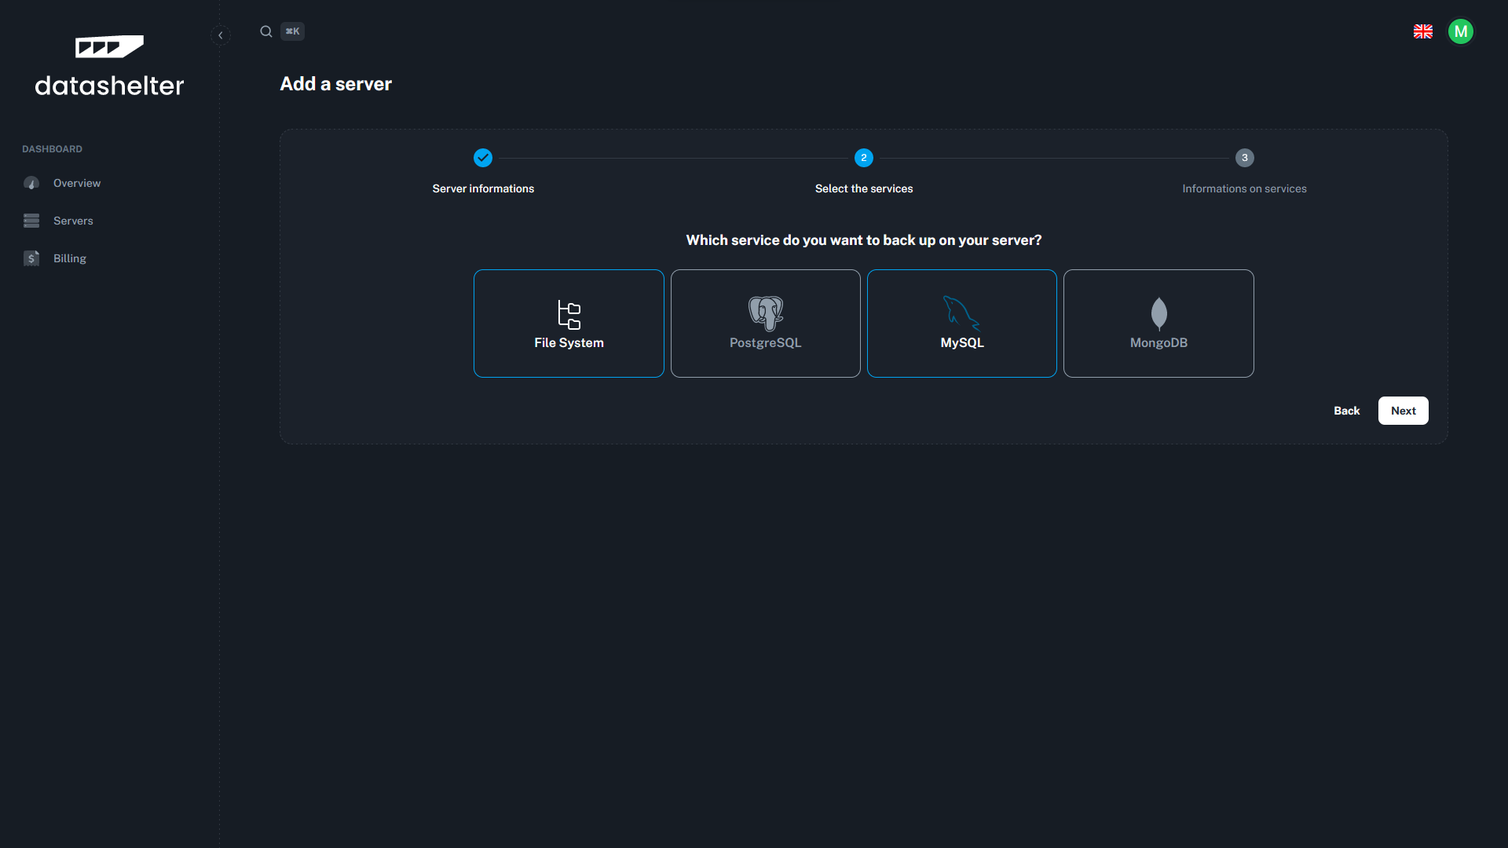
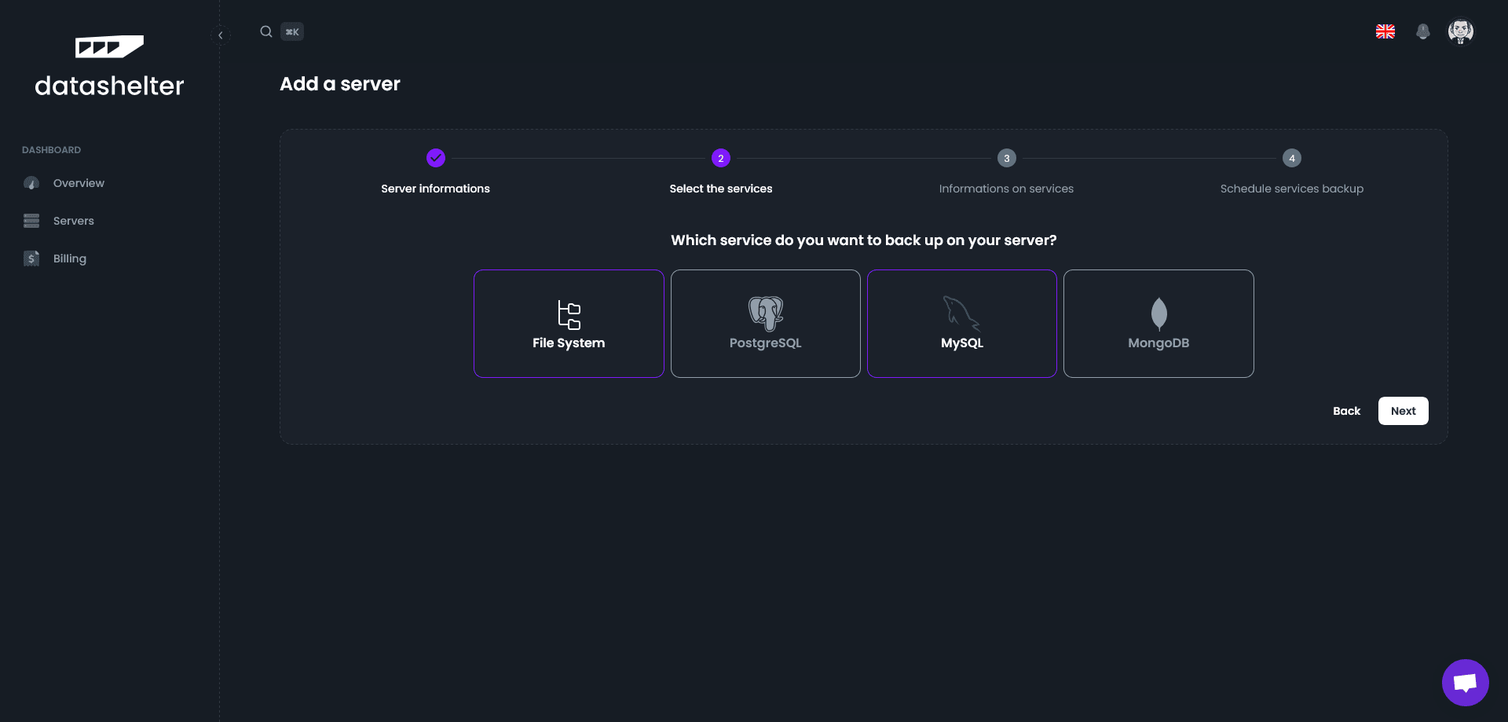
add many ressources to the documentation

diff --git a/docusaurus.config.js b/docusaurus.config.js
@@ -168,7 +168,7 @@ const config = {
             ],
           },
         ],
-        copyright: `Copyright © ${new Date().getFullYear()} Datashelter. Built with ❤ in 🇪🇺`,
+        copyright: `Copyright © ${new Date().getFullYear()} Datashelter - Your Backups Effortlessly Automated`,
       },
       prism: {
         theme: prismThemes.github,

diff --git a/i18n/fr/docusaurus-plugin-content-docs/current/introduction.md b/i18n/fr/docusaurus-plugin-content-docs/current/introduction.md
@@ -8,35 +8,34 @@ import TabItem from '@theme/TabItem';
 
 # Introduction
 
-Datashelter est une plateforme SaaS qui vous permet d'automatiser vos sauvegardes de manière simple et sécurisée. Il vous suffit de configurer votre serveur à l'aide de notre CLI snaper, et Datashelter s'occupe du reste (stockage, alertes et politiques de rétention).
+Datashelter est une solution de sauvegarde entièrement intégrée, conçue pour simplifier le processus de sauvegarde de vos serveurs Linux. En seulement quelques étapes, vous pouvez protéger vos données critiques en sauvegardant vos fichiers et bases de données sur un système de stockage compatible S3.
+Datashelter propose une configuration simple, une gestion automatisée des sauvegardes et des fonctionnalités de récupération puissantes—tout en garantissant que vos données sont chiffrées, compressées et dédupliquées.
 
-Notre CLI snaper s'installe sur votre serveur à sauvegarder et vous permet de configurer simplement vos sauvegardes. Il se charge de réaliser vos sauvegardes, les compresser, les chiffrer et les envoyer vers Datashelter au travers d'une API S3.
+## Fonctionnalités principales
 
-## Comment ça marche ?
+- **Configuration rapide :** Sauvegardez vos serveurs en quelques minutes grâce à notre outil CLI facile à installer.
+- **Gestion automatisée :** Après votre première sauvegarde, Datashelter gère tout automatiquement. Vous serez informé si un problème survient.
+- **Sauvegarde complète :** Prend en charge les fichiers et les principales bases de données (MySQL, PostgreSQL, MongoDB).
+- **Chiffrement de bout en bout :** Toutes les sauvegardes sont chiffrées avec le chiffrement AES-256.
+- **Stockage optimisé :** La compression ZSTD et la déduplication garantissent une utilisation minimale du stockage.
+- **Restauration facile :** Récupérez vos fichiers ou bases de données rapidement et sans effort.
 
-<Tabs groupId="backup_type">
-  <TabItem value="files" label="Files">
-    1. Crée un index de vos fichiers, comprenant le nom, la taille, la date de modification et un checksum (si activé)
-    2. Génère un index différentiel en se basant sur l'index précédent
-    3. Envoi les fichiers modifiés vers Datashelter (au travers de l'API S3), en les compressant et en les chiffrant à la volée
-  </TabItem>
-  <TabItem value="databases" label="Databases">
-    1. Utilise votre client de base de données (mysql, postgresql, mongodb) pour créer un dump de votre base de données
-    2. Transfère le dump vers Datashelter (au travers de l'API S3), en veillant à le compresser et à le chiffrer à la volée
-  </TabItem>
-</Tabs>
+## Comment ça fonctionne
 
+Snaper est l'outil en ligne de commande (CLI) qui gère le processus de sauvegarde pour Datashelter. Conçu en Golang, Snaper est un outil puissant et léger, conçu pour effectuer des sauvegardes de manière efficace et sécurisée depuis le côté client. Il prend en charge tout, de la sauvegarde de fichiers et de bases de données à la compression, au chiffrement et au transfert vers le stockage—le tout dans un seul binaire facile à utiliser.
 
-### En quoi Snaper se différencie ?
+Ce qui distingue Snaper des solutions de sauvegarde traditionnelles, c'est sa capacité de sauvegarde incrémentale avec déduplication au niveau des fichiers. Contrairement aux outils comme rsync, qui ne sauvegardent que les fichiers modifiés ou ajoutés, Snaper utilise une méthode de sauvegarde basée sur des index. Lisez notre article dédié Qu'est-ce qu'une sauvegarde basée sur des index pour en savoir plus !
 
-snaper crée des instantanés avec déduplication au niveau des fichiers. Contrairement aux méthodes traditionnelles telles que les sauvegardes incrémentales rsync qui ne stockent que les fichiers modifiés ou ajoutés, snaper va plus loin.
+![Snaper schema](assets/snaper_schema.png)
 
-Il indexe et stocke l'état complet de vos fichiers, qu'ils aient été ajoutés, modifiés ou supprimés. Cette fonctionnalité garantit la capacité de snaper à **restaurer vos systèmes de fichiers à l'indentique**.
+En résumé, Snaper offre une restauration à des points précis dans le temps avec une utilisation efficace du stockage, vous garantissant ainsi de pouvoir récupérer vos données exactement telles qu'elles étaient à tout moment de la sauvegarde.
 
-### Où sont stockées mes données ?
+### Où Datashelter stocke-t-il vos données ?
 
-Chez Datashelter, nous donnons la priorité à la sécurité et à la souveraineté de vos données. C'est pourquoi nous stockons exclusivement vos fichiers en France 🇫🇷 - en nous appuyant actuellement sur OVH Object Storage, une solution compatible S3 fiable et de confiance.
+Chez Datashelter, nous nous engageons à garantir la sécurité, la confidentialité et la fiabilité de vos données. Actuellement, nous utilisons l'infrastructure OVHcloud pour stocker vos sauvegardes, offrant un accès à cinq zones de disponibilité réparties entre la France 🇫🇷 (Gravelines), l'Allemagne 🇩🇪 (Francfort), la Pologne 🇵🇱 (Varsovie), le Royaume-Uni 🇬🇧 (Londres), et le Canada 🇨🇦 (Beauharnois). Ce partenariat stratégique avec OVHcloud nous permet de proposer un stockage fiable à un prix compétitif dans des régions qui répondent à vos besoins opérationnels et réglementaires.
 
-Notre ambition est de devenir une solution alternative européenne souveraine 🇪🇺 pour la sauvegarde des données. Notre objectif est de fournir une interface entre vos serveurs - qu'ils soient dédiés, VPS ou sur site - et le stockage objet.
+De plus, en tant que solution entièrement compatible avec S3, Datashelter vous offre la flexibilité de connecter votre propre bucket S3. Cela vous permet de stocker vos sauvegardes à l'endroit le plus pratique pour vos besoins—que ce soit au sein de votre infrastructure cloud existante, sur site, ou dans une autre région de votre choix.
 
-**Just give it a try  🚀**
+En alliant flexibilité et accessibilité, Datashelter garantit que vos données restent sécurisées, conformes et facilement accessibles, sans compromettre les coûts.
+
+Essayez et vous verrez ! 🚀

diff --git a/docs/introduction.md b/docs/introduction.md
@@ -8,35 +8,34 @@ import TabItem from '@theme/TabItem';
 
 # Introduction
 
-Datashelter is a SaaS platform that automates your backups in a simple and secure manner. All you need to do is configure your server using our CLI, and let us handle the rest (storage, alerting, and retention policies).
+Datashelter is a fully integrated backup solution designed to simplify the process of backing up your Linux servers. With just a few steps, you can protect your critical data by backing up your files and databases to an S3-compatible storage system.
+Datashelter provides seamless setup, automated backup management, and powerful recovery features—all while ensuring your data is encrypted, compressed, and deduplicated.
 
-To facilitate this, we developed snaper, a CLI tool that assists you in configuring your server and managing your backups.
+### Key Features
+- **Quick Setup:** Backup your servers within minutes by using our easy-to-install CLI tool.
+- **Automated Management:** After your initial backup, Datashelter manages everything automatically. You will be notified if anything goes wrong.
+- **Comprehensive Backup:** Supports files and major databases (MySQL, PostgreSQL, MongoDB).
+- **End-to-End Security:** All backups are encrypted using AES-256 encryption.
+- **Efficient Storage:** ZSTD compression and deduplication ensure minimal storage usage.
+- **Easy Restoration:** Recover files or databases quickly and effortlessly.
 
 ## How it works
 
-<Tabs groupId="backup_type">
-  <TabItem value="files" label="Files">
-    1. Creates an index of your files, including name, size, modification date, and hash
-    2. Generates a differential index compared to the previous index
-    3. Sends changed files to S3-compatible storage, compressing and encrypting them on-the-fly
-  </TabItem>
-  <TabItem value="databases" label="Databases">
-    1. Use your database client (mysql, postgresql, mongodb) to create a dump of your database
-    2. Transfer the dump to an S3-compatible storage system, making sure to compress and encrypt it on-the-fly
-  </TabItem>
-</Tabs>
+Snaper is the command-line tool (CLI) that powers the backup process for Datashelter. Built in Golang, Snaper is a powerful, lightweight tool designed to perform backups efficiently and securely from the client side. It handles everything from file and database backup to compression, encryption, and storage transfer—all within a single, easy-to-use binary.
+
+What makes Snaper different from traditional backup solutions is its incremental backup with file-level deduplication. Unlike tools like rsync that only back up changed or added files, Snaper uses index-based backup method. Read our dedicated blogpost [What is index-based backup](https://datashelter.tech/fr/blog/sauvegarde-index-based/) to know more about it!
+
+![Snaper schema](assets/snaper_schema.png)
+
+In essence, Snaper provides storage-efficient, point-in-time restoration, ensuring that you can recover your data exactly as it was at any backup point.
 
 
-### Why is snaper different ?
+### Where does Datashelter store your data
 
-snaper creates incremental backups with file-level deduplication. Unlike traditional methods such as rsync incrementals, which only store changed or added files, snaper takes it a step further. It indexes and stores the complete state of your files, whether they have been added, changed, or deleted. This feature ensures snaper's ability to **restore your files at any point in time (including deletions)**.
+At Datashelter, we are dedicated to ensuring the security, privacy, and reliability of your data. Currently, we leverage OVHcloud infrastructure to store your backups, providing access to **five availability zones** across **France** 🇫🇷 (Gravelines), **Germany** 🇩🇪 (Frankfurt), **Poland** 🇵🇱 (Warsaw), the **UK** 🇬🇧 (London), and **Canada** 🇨🇦 (Beauharnois). This strategic partnership with OVHcloud allows us to offer reliable storage at a competitive price in regions that align with your business operations and regulatory needs.
 
-In short, snaper aids in creating **storage-efficient** backups, courtesy of its compression and deduplication capabilities.
+Additionally, as a fully S3-compatible solution, Datashelter offers you the flexibility to connect your own S3 bucket. This enables you to store your backups in the most convenient location for your needs—whether that’s within your existing cloud infrastructure, an on-premise solution, or another region of your choosing.
 
-### Where do you store my data ?
-
-At Datashelter, we prioritize the security and sovereignty of your data. That's why we exclusively store your files in Europe - currently leveraging OVH Object Storage, a trusted and reliable S3-compatible solution.
-
-Our ambition is to become a sovereign European 🇪🇺 alternative solution for data backup. We aim to provide an interface between your servers - whether they're dedicated, VPS, or on-premise - and object storage.
+By providing both flexibility and affordability, Datashelter ensures that your data remains secure, compliant, and highly accessible without compromising on cost.
 
 **Just give us a try and you will see 🚀**

diff --git a/i18n/fr/docusaurus-plugin-content-docs/current/faq/infrastructure/infrastructure.md b/i18n/fr/docusaurus-plugin-content-docs/current/faq/infrastructure/infrastructure.md
@@ -1,9 +1,18 @@
 # Détails de l'infrastructure
 
-Vos fichiers sont exclusivement stockés en Europe 🇪🇺 sur un stockage compatible S3 (nous nous appuyons actuellement sur [OVH Object storage](https://www.ovhcloud.com/fr/public-cloud/object-storage/)).
+## Que se passe-t-il en coulisse ?
 
-Snaper effectue un chiffrement côté client à la volée en utilisant l'algorithme AES-256-GCM, de sorte que vos données restent toujours sécurisées 🔒.
+Datashelter est basé sur le protocole S3, avec des composants personnalisés supplémentaires qui offrent des fonctionnalités telles que :
 
-**Datashelter n'a pas accès à vos clés de chiffrement**
+- **Alertes :** Nous surveillons en permanence vos sauvegardes et vous avertissons en cas de problème. Par exemple, si votre dernière sauvegarde n'a pas été reçue, vous recevrez une alerte par email.
+- **Rétention :** Nous gérons la rétention de vos sauvegardes, vous permettant de configurer facilement des règles de réduction d'échantillonnage pour les dumps de bases de données. Par exemple, vous pouvez choisir de conserver 1 sauvegarde par jour pour les 7 derniers jours, 1 sauvegarde par semaine pour les 4 dernières semaines, 1 sauvegarde par mois pour les 6 derniers mois, etc. **Pour les sauvegardes de fichiers, nous conservons les index pendant 1 an grâce à la déduplication.**
+- **Protection contre l'altération des données :** Avec notre passerelle S3 personnalisée, vos sauvegardes restent sécurisées même si vos identifiants S3 sont compromis. Vos sauvegardes sont immuables, ce qui signifie qu'elles ne peuvent ni être supprimées ni modifiées. Vous aurez uniquement un accès en lecture.
+- **Haute segmentation :** Chaque serveur créé dans Datashelter est isolé des autres, avec un bucket et des identifiants dédiés pour chacun. Cela garantit que si un serveur est compromis, les autres ne sont pas affectés.
 
-Pour plus de détails, notre équipe d'assistance se fera un plaisir de vous expliquer comment Datashelter fonctionne sous le capot [support@datashelter.tech](mailto:support@datashelter.tech).
+![Datashelter infrastructure](../../assets/faq/datashelter_infrastructure_schema.png)
+
+## Envie d'en savoir plus ?
+
+Si vous souhaitez en savoir plus sur nos fonctionnalités de sécurité uniques, nous vous invitons à lire notre article de blog : [Comment Datashelter garantit la sécurité de vos sauvegardes ?](https://datashelter.tech/fr/blog/datashelter-securise-vos-sauvegardes/)
+
+Pour toute information complémentaire, notre équipe de support est à votre disposition pour vous fournir plus de détails sur le fonctionnement de Datashelter. N'hésitez pas à nous contacter à l'adresse suivante : support@datashelter.tech.

diff --git a/docs/faq/infrastructure/infrastructure.md b/docs/faq/infrastructure/infrastructure.md
@@ -1,9 +1,17 @@
 # Infrastructure details
 
-Your files are exclusively stored in Europe on an S3-compatible storage (we currently rely on [OVH Object storage](https://www.ovhcloud.com/fr/public-cloud/object-storage/)).
+## What's under the hood?
 
-Snaper performs client-side encryption on-the-fly using AES-256-GCM algorithm, so your data always remain secured 🔒.
+Datashelter is built around the S3 protocol, with additional custom components that provide features such as:
+- **Alerts:** We continuously monitor your backups and notify you if something goes wrong. For instance, if your last backup hasn't been received, you'll receive an email alert.
+- **Retention:** We manage the retention of your backups, making it easy to configure downsampling rules for database dumps. For example, you can choose to keep 1 backup per day for the last 7 days, 1 backup per week for the last 4 weeks, 1 backup per month for the last 6 months, etc. For file backups, we retain all indexes for 1 year through deduplication.
+- **Data tampering protection:** With our custom S3 gateway, your backups are secure even if your S3 credentials are compromised. Your backups are immutable, meaning they cannot be deleted or modified. You will only have read access to them.
+- **High segmentation:** Every server created in Datashelter is isolated from the others, each with its own dedicated bucket and credentials. This ensures that if one server is compromised, the others remain unaffected.
 
-**Datashelter does not have access to your encryption keys**
+![Datashelter infrastructure](../../assets/faq/datashelter_infrastructure_schema.png)
 
-For more details, our support team will be happy to give you more details about how Datashelter works under the hood [contact@datashelter.tech](mailto:contact@datashelter.tech).
+## Want to know more?
+
+If you're interested in learning more about our unique security features, we invite you to read our blog post: [How Datashelter ensures the security of your backups](https://datashelter.tech/blog/datashelter-security-features/).
+
+For further information, our support team is happy to assist and provide additional details about how Datashelter works. Feel free to reach out to us at contact@datashelter.tech.

diff --git a/i18n/fr/docusaurus-plugin-content-docs/current/quickstart.md b/i18n/fr/docusaurus-plugin-content-docs/current/quickstart.md
@@ -2,7 +2,7 @@
 sidebar_position: 2
 ---
 
-# Quickstart
+# Get started
 
 ## Créez un compte sur Datashelter
 
@@ -13,32 +13,23 @@ Créez un compte sur [app.datashelter.tech](https://app.datashelter.tech)
 
 Ajoutez votre premier serveur sur le tableau de bord. Vous serez invité à installer le CLI snaper sur votre serveur et à le configurer.
 
+### 1. Cliquez sur le bouton "Ajouter un serveur"
+![Configurer un serveur](assets/quickstart/configure_server.png)
 
-1. **Cliquez sur le bouton "Ajouter un serveur"**
-![Configure server](assets/quickstart/configure_server.png)
+### 2. Définissez un nom et une description pour votre serveur
+![Informations sur le serveur](assets/quickstart/1_server_informations.png)
 
-2. **Définissez le nom du serveur et une description**
-![Server informations](assets/quickstart/1_server_informations.png)
+### 3. Sélectionnez les types de services que vous souhaitez sauvegarder
+![Selectionnez vos services](assets/quickstart/2_select_services.png)
 
-3. **Sélectionnez les services que vous souhaitez sauvegarder**
-![Select services](assets/quickstart/2_select_services.png)
+### 4. Fournissez les détails des services
+![Informations sur les services](assets/quickstart/3_service_informations.png)
 
-4. **Remplir les informations sur les services à sauvegarder**
-![Service informations](assets/quickstart/3_service_informations.png)
+### 5. Planifier la sauvegarde automatique (optionnelle)
+![Planifier les sauvegardes](assets/quickstart/4_set_scheduling.png)
 
-1. **Lancer les commandes d'installation et de configuration retournées dans votre terminal pour effectuer votre premier instantané**
-![Final step](assets/quickstart/4_final_step.png)
-
-## Configurer les sauvegardes récurentes
-
-Une fois la CLI de snaper installée et configurée, vous pouvez configurer des crontabs pour planifier vos sauvegardes.
-
-```
-crontab -e
----
-# Sauvegarde tous vos services configurés toutes les jours à 3h00 du matin
-0 3 * * * /usr/local/bin/snaper backup --all 2>&1 >> /var/log/snaper.log
-```
+### 6. Lancer les commandes de configuration dans votre terminal
+![Lancer les commandes dans le terminal](assets/quickstart/5_final_step.png)
 
 ## Profitez ! 🚀
 

diff --git a/docs/quickstart.md b/docs/quickstart.md
@@ -2,7 +2,7 @@
 sidebar_position: 2
 ---
 
-# Quickstart
+# Get started
 
 ## Create an account on Datashelter
 
@@ -14,31 +14,23 @@ Create an account on [app.datashelter.tech](https://app.datashelter.tech)
 Add your first server on the dashboard. You will be prompted to install the snaper CLI on your server and to configure it.
 
 
-1. **Click on the "Add server" button**
+### 1. Click the "Add server" button
 ![Configure server](assets/quickstart/configure_server.png)
 
-2. **Set the server name and a description**
+### 2. Enter a server name and description
 ![Server informations](assets/quickstart/1_server_informations.png)
 
-3. **Select the services you want to backup**
+### 3. Select the types of services you want to back up
 ![Select services](assets/quickstart/2_select_services.png)
 
-4. **Fill in the services informations**
+### 4. Provide service details
 ![Service informations](assets/quickstart/3_service_informations.png)
 
-5. **Launch snaper install and configuration command on your terminal to perform your first backup**
-![Final step](assets/quickstart/4_final_step.png)
+### 5. Set a backup schedule (optional)
+![Set scheduling](assets/quickstart/4_set_scheduling.png)
 
-## Setup recurring backups
-
-Once the snaper CLI is installed and configured, you can setup crontabs to schedule your backups.
-
-```
-crontab -e
----
-# Backup your files every day at 3am
-0 3 * * * /usr/local/bin/snaper backup --all 2>&1 >> /var/log/snaper.log
-```
+### 6. Run configuration commands in your terminal
+![Final step](assets/quickstart/5_final_step.png)
 
 ## Enjoy 🚀
 

diff --git a/i18n/fr/docusaurus-plugin-content-docs/current/faq/compression/compression-process.md b/i18n/fr/docusaurus-plugin-content-docs/current/faq/compression/compression-process.md
@@ -1,5 +1,11 @@
-# Comment la compression est-elle réalisée avec Snaper ?
+# Comment la compression est-elle gérée ?
 
-Nous utilisons l'algorithme ZSTD pour compresser tous les fichiers envoyés sur S3 (*cette fonctionnalité peut être désactivée en option*).
+Notre outil CLI, Snaper, compresse automatiquement vos fichiers **avant de les chiffrer et de les télécharger sur S3.**
 
-Nous avons choisi cet algorithme car il offre l'un des meilleurs rapports vitesse/compression.
+Nous utilisons l'algorithme ZSTD, qui offre un équilibre optimal entre **vitesse de compression et efficacité**.
+
+### Puis-je désactiver la compression ?
+
+Oui, vous pouvez désactiver la compression en définissant la valeur `general.enable_compression` à `false` dans le fichier *~/.config/snaper/config.yaml*.
+
+**Important :** Vous ne pouvez pas désactiver la compression après que des sauvegardes ont déjà été effectuées. Cela entraînerait des problèmes, car Snaper s'attend à ce que tous les fichiers précédents soient compressés et tentera de les décompresser, ce qui provoquerait des erreurs dans votre bucket S3.

diff --git a/docs/faq/encryption/s3-encryption.md b/docs/faq/encryption/s3-encryption.md
@@ -1,9 +1,5 @@
-# Do you encrypt data at rest in S3 ?
+# Comment chiffrons-nous vos données ?
 
-Data encryption is essential for privacy and security. We strongly recommend encrypting your data with a personal key.
+Snaper chiffre vos données avec une clé AES-256 dérivée sur 32 bits avant de les envoyer vers le stockage compatible S3 de Datashelter.
 
-With this in mind, Snaper encrypts your data before sending it to the S3 compatible DataShelter's cloud, ensuring only you have access.
-
-Specifically, we generate a robust 32-bit AES 256 key before transferring your files. This key, known for its powerful encryption abilities, is used to encrypt your files.
-
-This approach **guarantees a high level of security** and protection for **your data**.
+Cela garantit que vous seul pouvez accéder à vos fichiers. Le chiffrement s'effectue localement, en utilisant l'une des méthodes les plus robustes disponibles, offrant ainsi une protection solide pour vos données.

diff --git a/docs/faq/compression/compression-process.md b/docs/faq/compression/compression-process.md
@@ -1,5 +1,11 @@
-# How is compression achieved with Snaper ?
+# How is compression handled?
 
-We use the ZSTD algorithm to compress all files sent to S3 (*this feature can be optionally disabled*).
+Our CLI tool, Snaper, automatically compresses your files **before encrypting and uploading them to S3**.
 
-We chose this algorithm because it offers one of the best speed-to-compression ratios.
+We use the **ZSTD** algorithm, which provides an optimal balance between **compression speed and efficiency**.
+
+## Can I disable compression?
+
+Yes, you can disable compression by setting the `general.enable_compression` value to `false` in your *~/.config/snaper/config.yaml* file.
+
+**Important:** You cannot disable compression after backups have already been performed. Doing so would cause issues, as Snaper expects all previous files to be compressed and will attempt to decompress them, leading to errors in your S3 bucket.

diff --git a/i18n/fr/docusaurus-plugin-content-docs/current/faq/encryption/s3-encryption.md b/i18n/fr/docusaurus-plugin-content-docs/current/faq/encryption/s3-encryption.md
@@ -4,6 +4,6 @@ Le chiffrement de vos données est essentiel pour la confidentialité et la séc
 
 Dans cette optique, Snaper chiffre vos données avant de les envoyer sur notre cloud compatible S3, garantissant ainsi que vous êtes le seul à pouvoir lire vos données.
 
-Plus précisément, nous générons une clé AES 256 32 bits robuste avant de transférer vos fichiers. Cette clé, connue pour ses puissantes capacités de cryptage, est utilisée pour chiffrer vos fichiers.
+Plus précisément, nous dérivons une clé AES 256 32 bits robuste avant de transférer vos fichiers. Cette clé, connue pour ses puissantes capacités de cryptage, est utilisée pour chiffrer vos fichiers.
 
 Cette approche vous **garantit un haut niveau de sécurité** et de protection de **vos données**.

diff --git a/i18n/fr/docusaurus-plugin-content-docs/current/cli/requisites/install.md b/i18n/fr/docusaurus-plugin-content-docs/current/cli/requisites/install.md
@@ -7,7 +7,20 @@ import TabItem from '@theme/TabItem';
 
 # Installer Snaper
 
+## Installation automatique (recommandée)
 Snaper est un outil en ligne de commande conçu pour créer efficacement des instantanés de fichiers et de bases de données (MySQL, PostgreSQL et MongoDB). Il est écrit en Go, ce qui permet de l'installer facilement à l'aide d'une seule commande :
+
+```bash
+curl -sSL https://dl.datashelter.cloud/scripts/install-snaper.sh | bash
+```
+
+## Installation manuelle
+
+Alternativement, vous pouvez installer Snaper manuellement en suivant les instructions ci-dessous :
+
+```bash
+curl -sSL https://dl.datashelter.cloud/scripts/install-snaper.sh | bash
+```
 
 <Tabs groupId="operating-systems">
   <TabItem value="linux" label="Linux" default>
